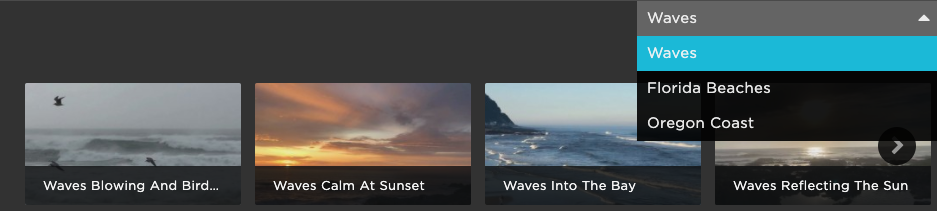
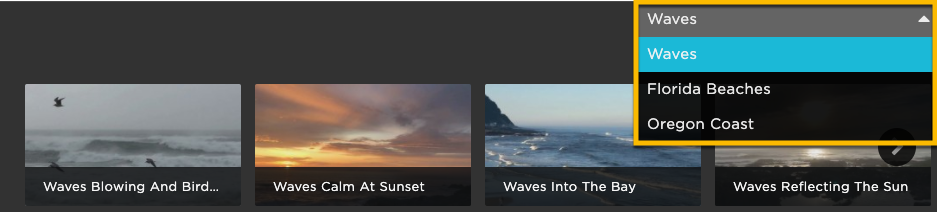
WIP page blocks and layouts

diff --git a/_site/using-brightcove-beacon/introducing-pages.html b/_site/using-brightcove-beacon/introducing-pages.html
@@ -621,6 +621,27 @@ function doGTranslate(lang_pair) {if(lang_pair.value)lang_pair=lang_pair.value;i
         <figure class="bcls-figure">
             <img class="bcls-image" src="/assets/images/pages/introducing-pages/block-types.png" alt="">
         </figure>
+        <p>Here are images of each type:</p>
+        <h4>single-block</h4>
+        <figure class="bcls-figure">
+            <img class="bcls-image" src="/assets/images/pages/introducing-pages/carousel-labels-in.png" alt="">
+        </figure>
+        <p>The <em>single-block</em> only permits you to add one layout/playlist combo to the block. The screenshot shows a <em>single-block</em> displaying a carousel.</p>
+        <h4>list-block</h4>
+        <p>The <em>list-block</em> permits you to add multiple layout/playlist combos to the block. The screenshot shows a <em>list-block</em> with three carousels contained therein.</p>
+        <figure class="bcls-figure">
+            <img class="bcls-image" src="/assets/images/pages/introducing-pages/list-block.png" alt="">
+        </figure>
+        <h4>tabed_block</h4>
+        <p>The <em>tabed-block</em> permits you to add multiple layout/playlist combos to the block. The screenshot shows a <em>tabed-block</em> with playlists selectable.</p>
+        <figure class="bcls-figure">
+            <img class="bcls-image" src="/assets/images/pages/introducing-pages/tabbed-block.png" alt="">
+        </figure>
+        <h4>dropdown-block</h4>
+        <p>The <em>dropdown-block</em> permits you to add multiple layout/playlist combos to the block. The screenshot shows a <em>dropdown-block</em> (inside the yellow rectangle) with three carousels contained therein.</p>
+        <figure class="bcls-figure">
+            <img class="bcls-image" src="/assets/images/pages/introducing-pages/dropdown-block.png" alt="">
+        </figure>
     </section>
 
     <section class="bcls-section">

diff --git a/using-brightcove-beacon/introducing-pages.html b/using-brightcove-beacon/introducing-pages.html
@@ -166,6 +166,27 @@ parent: Using Brightcove Beacon
         <figure class="bcls-figure">
             <img class="bcls-image" src="/assets/images/pages/introducing-pages/block-types.png" alt="">
         </figure>
+        <p>Here are images of each type:</p>
+        <h4>single-block</h4>
+        <figure class="bcls-figure">
+            <img class="bcls-image" src="/assets/images/pages/introducing-pages/carousel-labels-in.png" alt="">
+        </figure>
+        <p>The <em>single-block</em> only permits you to add one layout/playlist combo to the block. The screenshot shows a <em>single-block</em> displaying a carousel.</p>
+        <h4>list-block</h4>
+        <p>The <em>list-block</em> permits you to add multiple layout/playlist combos to the block. The screenshot shows a <em>list-block</em> with three carousels contained therein.</p>
+        <figure class="bcls-figure">
+            <img class="bcls-image" src="/assets/images/pages/introducing-pages/list-block.png" alt="">
+        </figure>
+        <h4>tabed_block</h4>
+        <p>The <em>tabed-block</em> permits you to add multiple layout/playlist combos to the block. The screenshot shows a <em>tabed-block</em> with playlists selectable.</p>
+        <figure class="bcls-figure">
+            <img class="bcls-image" src="/assets/images/pages/introducing-pages/tabbed-block.png" alt="">
+        </figure>
+        <h4>dropdown-block</h4>
+        <p>The <em>dropdown-block</em> permits you to add multiple layout/playlist combos to the block. The screenshot shows a <em>dropdown-block</em> (inside the yellow rectangle) with three carousels contained therein.</p>
+        <figure class="bcls-figure">
+            <img class="bcls-image" src="/assets/images/pages/introducing-pages/dropdown-block.png" alt="">
+        </figure>
     </section>
 
     <section class="bcls-section">
